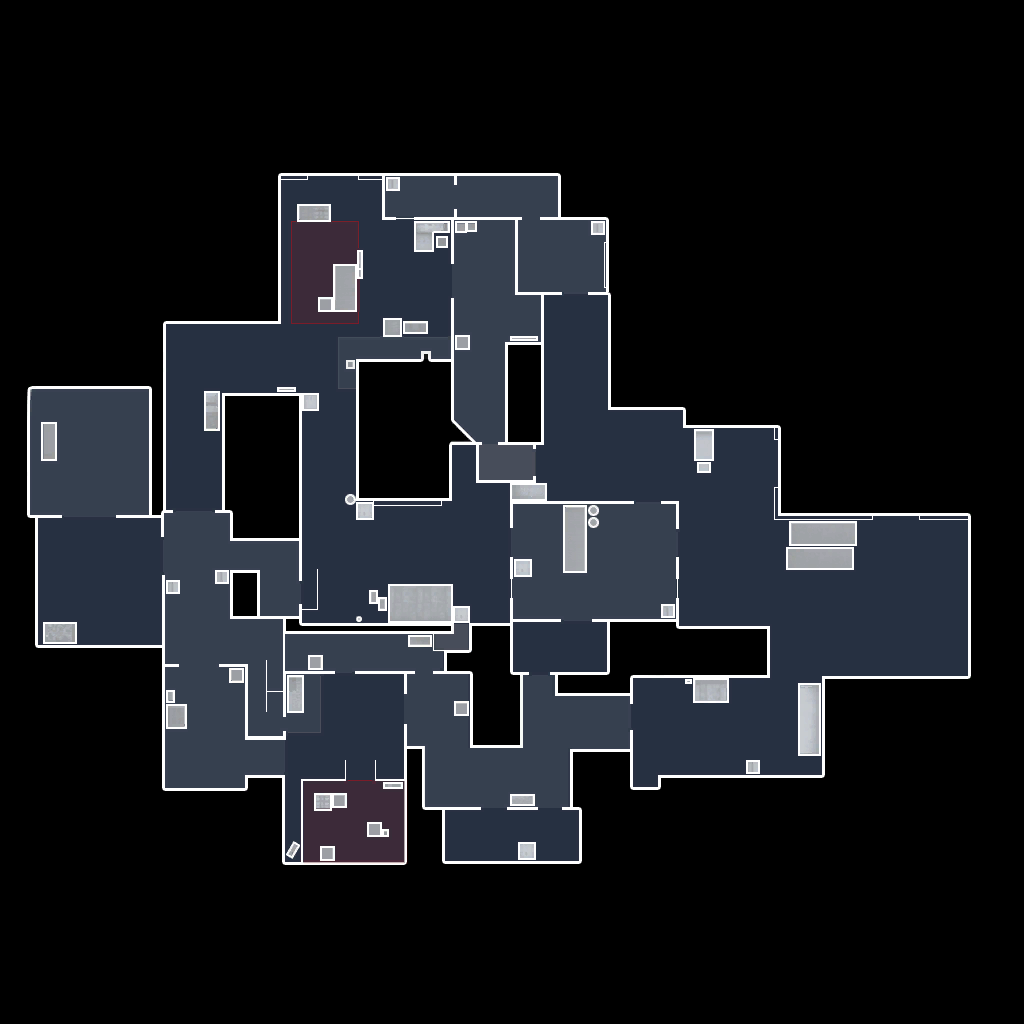
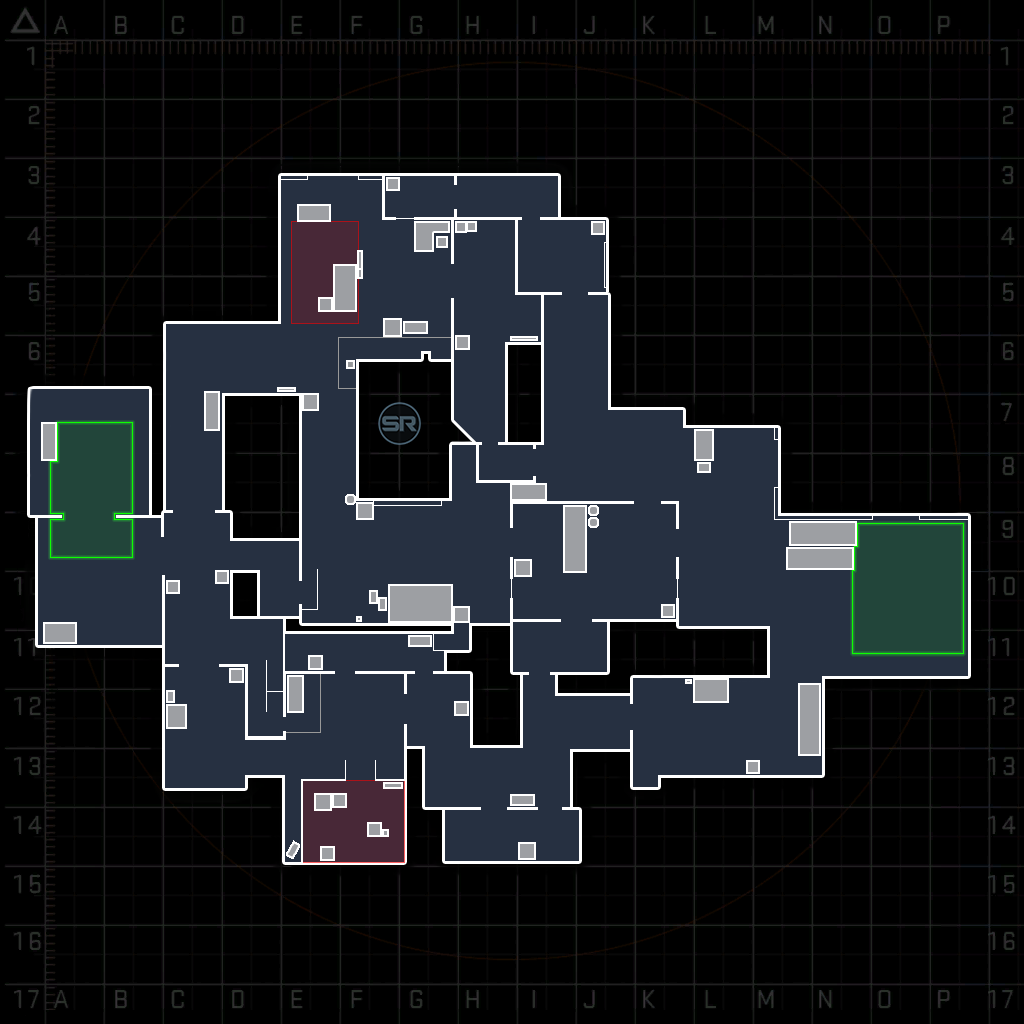
Radar component Done

diff --git a/front/src/overlay/components/RadarPlayer.js b/front/src/overlay/components/RadarPlayer.js
@@ -8,57 +8,71 @@ import type { State } from '../../types'
 import type { Teams, MapState } from '../types'
 
 type Props = {
-  PlayerNumber: number,
-  PlayerTeam: Teams,
-  PlayerPosX: number,
-  PlayerPosY: number,
-  PlayerDead: boolean,
+  playerNumber: number,
+  playerTeam: Teams,
+  playerPosX: number,
+  playerPosY: number,
+  playerDead: boolean,
   key: number,
   map: MapState
 }
 
 type ComponentState = {
   deathPosX: number,
-  deathPosY: number
+  deathPosY: number,
+  prefixX: number,
+  prefixY: number,
+  scaleX: number,
+  scaleY: number
 }
 
 class Radar extends PureComponent<Props, ComponentState> {
   state = {
     deathPosX: -30,
-    deathPosY: -30
+    deathPosY: -30,
+    prefixX: 0,
+    prefixY: 0,
+    scaleX: 0,
+    scaleY: 0
+  }
+
+  componentWillMount() {
+    const { map } = this.props
+    this.setState({
+      prefixX: getMapPrefix(map.name)[0],
+      prefixY: getMapPrefix(map.name)[1],
+      scaleX: getMapScale(map.name)[0],
+      scaleY: getMapScale(map.name)[1]
+    })
   }
 
   _calculateXPosition = () => {
-    const { PlayerPosX, map } = this.props
-    const prefix = getMapPrefix(map.name)[0]
-    const scale = getMapScale(map.name)[0]
+    const { playerPosX } = this.props
+    const { prefixX, scaleX } = this.state
 
-    if (isNaN(PlayerPosX)) return
-    if (PlayerPosX < 0) {
-      return (Math.abs(PlayerPosX) * (-scale)) + prefix
-    } else {
-      return (PlayerPosX * scale) + prefix
-    }
+    if (isNaN(playerPosX)) return
+
+    if (playerPosX < 0)
+      return (Math.abs(playerPosX) * (-scaleX)) + prefixX
+    else 
+      return (playerPosX * scaleX) + prefixX
   }
 
   _calculateYPosition = () => {
-    const { PlayerPosY, map } = this.props
-    
-    const prefix = getMapPrefix(map.name)[1]
-    const scale = getMapScale(map.name)[1]
+    const { playerPosY } = this.props
+    const { prefixY, scaleY } = this.state
 
-    if (isNaN(PlayerPosY)) return
-    if (PlayerPosY < 0) {
-      return (Math.abs(PlayerPosY) * (-scale)) + prefix
-    } else {
-      return (PlayerPosY * scale) + prefix
-    }
+    if (isNaN(playerPosY)) return
+
+    if (playerPosY < 0)
+      return (Math.abs(playerPosY) * (-scaleY)) + prefixY
+    else
+      return (playerPosY * scaleY) + prefixY
   }
 
   componentWillUpdate (nextProp: Props) {
-    // TODO: CHANGE THIS TO REDUX>
-    const { PlayerDead } = this.props
-    if (nextProp.PlayerDead === true && PlayerDead === false) {
+    const { playerDead } = this.props
+    if (nextProp.playerDead && !playerDead) {
       this.setState({
         deathPosX: this._calculateXPosition(),
         deathPosY: this._calculateYPosition()
@@ -67,19 +81,19 @@ class Radar extends PureComponent<Props, ComponentState> {
   }
 
   render () {
-    const { PlayerNumber, PlayerTeam, PlayerDead } = this.props
+    const { playerNumber, playerTeam, playerDead } = this.props
     return (
       <foreignObject
-        x={PlayerDead ? this.state.deathPosX : this._calculateXPosition()}
-        y={PlayerDead ? this.state.deathPosY : this._calculateYPosition()}
+        x={playerDead ? this.state.deathPosX : this._calculateXPosition()}
+        y={playerDead ? this.state.deathPosY : this._calculateYPosition()}
         width={48}
         height={48}
         key={this.props.key}
       >
         <div
-          className={`radar-player ${PlayerTeam} ${PlayerDead ? 'dead' : ''}`}
+          className={`radar-player ${playerTeam} ${playerDead ? 'dead' : ''}`}
         >
-          <span>{PlayerNumber}</span>
+          <span>{playerNumber}</span>
         </div>
       </foreignObject>
     )

diff --git a/front/src/overlay/components/ScorePlate.less b/front/src/overlay/components/ScorePlate.less
@@ -1,3 +1,5 @@
+@import "../variables.less";
+
 .score-top{
   height: 95px;
   margin-left: 30px;
@@ -14,20 +16,20 @@
       &.CT{
         flex-direction: row;
         .team-logo{ border-top-left-radius: 15px; }
-        .team-name, .team-score{ color: #2688f8; }
-        .team-score{ border-bottom: 2px solid #2688f8; }
+        .team-name, .team-score{ color: @ct-color-main; }
+        .team-score{ border-bottom: 2px solid @ct-color-main; }
       }
 
       &.T{
         flex-direction: row-reverse;
         .team-logo{ border-top-right-radius: 15px; }
-        .team-name, .team-score{ color: #ffb900; }
-        .team-score{ border-bottom: 2px solid #ffb900; }
+        .team-name, .team-score{ color: @t-color-main; }
+        .team-score{ border-bottom: 2px solid @t-color-main; }
       }
 
       .team-logo{
         width: 75px;
-        background-color: #1d3b5d;
+        background-color: @ui-text-light;
 
         img{
           display: block;
@@ -44,7 +46,7 @@
         text-align: center;
         font-weight: bold;
         flex: 1;
-        background-color: rgba(1, 64, 137, 0.6);
+        background-color: @ui-default-dark;
 
         &.smaller{
           font-size: 26px;
@@ -56,7 +58,7 @@
         text-align: center;
         font-size: 55px;
         font-weight: bold;
-        background-color: #0c2045;
+        background-color: @ui-text-dark;
       }
     }
     .score-time{
@@ -65,7 +67,7 @@
       display: flex;
       flex-direction: column;
       width: 340px;
-      background-color: rgba(1, 64, 137, 0.6);
+      background-color: @ui-default-dark;
 
       .time{
         font-size: 42px;

diff --git a/front/src/overlay/components/Player.less b/front/src/overlay/components/Player.less
@@ -1,3 +1,5 @@
+@import "../variables.less";
+
 .team-player{
   display: grid;
   grid-template-rows: 1fr 1fr;
@@ -65,7 +67,7 @@
   display: flex;
   align-self: stretch;
   line-height: 25px;
-  background-color: rgba(1, 64, 137, 0.5);
+  background-color: @ui-default-light;
   overflow: hidden;
 
   .player-weapon-secondary{
@@ -117,7 +119,7 @@
     p{
       font-weight: bold;
       font-size: 19px;
-      color: #21c650;
+      color: @money-color;
       text-shadow: 1px 1px 1px black;
     }
   }
@@ -158,17 +160,17 @@ img.holstered{
 }
 
 .overlay-left>.team.CT>.team-player>.player-area-upper{
-  background: -webkit-linear-gradient(left, #004799 2%,#54A6E5 100%);
+  background: -webkit-linear-gradient(left, @ct-color-gradient-off 2%, @ct-color-gradient-main 100%);
 }
 .overlay-right>.team.CT>.team-player>.player-area-upper{
-  background: -webkit-linear-gradient(right, #004799 2%,#54A6E5 100%);
+  background: -webkit-linear-gradient(right, @ct-color-gradient-off 2%, @ct-color-gradient-main 100%);
 }
 
 .overlay-left>.team.T>.team-player>.player-area-upper{
-  background: -webkit-linear-gradient(left, #5e3b00 0%,#ffb900 60%);
+  background: -webkit-linear-gradient(left, @t-color-gradient-off 0%, @t-color-main 60%);
 }
 .overlay-right>.team.T>.team-player>.player-area-upper{
-  background: -webkit-linear-gradient(right, #5e3b00 0%,#ffb900 60%);
+  background: -webkit-linear-gradient(right, @t-color-gradient-off 0%, @t-color-main 60%);
 }
 
 .overlay-left>.team>.team-player.watching>.player-area-lower{

diff --git a/front/src/overlay/lib/MapPrefix.js b/front/src/overlay/lib/MapPrefix.js
@@ -5,19 +5,19 @@ export const getMapPrefix = (map: string) => {
     case 'de_dust2':
       return [540, 715]
     case 'de_train':
-      return [0, 0]
+      return [507, 484]
     case 'de_mirage':
-      return [0, 0]
+      return [621, 320]
     case 'de_vertigo':
       return [0, 0]
     case 'de_cache':
-      return [0, 0]
+      return [333, 565]
     case 'de_overpass':
-      return [0, 0]
+      return [910, 317]
     case 'de_cbble':
       return [0, 0]
     case 'de_nuke':
-      return [0, 0]
+      return [475, 393]
     default:
       return [0, 0]
   }
@@ -28,19 +28,19 @@ export const getMapScale = (map: string) => {
     case 'de_dust2':
       return [0.2256, -0.2256]
     case 'de_train':
-      return [0, 0]
+      return [0.2092, -0.2070]
     case 'de_mirage':
-      return [0, 0]
+      return [0.1949, -0.1990]
     case 'de_vertigo':
       return [0, 0]
     case 'de_cache':
-      return [0, 0]
+      return [0.1835, -0.1800]
     case 'de_overpass':
-      return [0, 0]
+      return [0.1926, -0.1902]
     case 'de_cbble':
       return [0, 0]
     case 'de_nuke':
-      return [0, 0]
+      return [0.1386, -0.1386]
     default:
       return [0, 0]
   }

diff --git a/front/src/overlay/components/PlayerPlate.less b/front/src/overlay/components/PlayerPlate.less
@@ -1,3 +1,4 @@
+@import "../variables.less";
 
 .player-plate{
   margin-bottom: 15px;
@@ -9,11 +10,11 @@
     .grid-upper p,
     .ammo-off,
     .team-highlight{
-      color: #2688f8;
+      color: @ct-color-main;
     }
 
     .grid-upper{
-      border-bottom: 2px solid #2688f8;
+      border-bottom: 2px solid @ct-color-main;
     }
   }
 
@@ -21,11 +22,11 @@
     .grid-upper p,
     .ammo-off,
     .team-highlight{
-      color: #ffb900;
+      color: @t-color-main;
     }
     
     .grid-upper{
-      border-bottom: 2px solid #ffb900;
+      border-bottom: 2px solid @t-color-main;
     }
   }
 
@@ -39,7 +40,7 @@
       margin-left: auto;
       margin-right: auto;
       width: 350px;
-      background-color: rgba(3, 26, 54, 0.8);
+      background-color: @ui-default-darkest;
       border-radius: 20px 20px 0px 0px;
 
       p{
@@ -123,11 +124,11 @@
       }
 
       .grid-lower-light{
-        background-color: rgba(1, 64, 137, 0.6);
+        background-color: @ui-default-dark;
       }
 
       .grid-lower-dark{
-        background-color: rgba(3, 26, 54, 0.8);
+        background-color: @ui-default-darkest;
       }
     }
   }

diff --git a/front/src/overlay/components/Radar.js b/front/src/overlay/components/Radar.js
@@ -28,11 +28,11 @@ class Radar extends PureComponent<Props> {
             return (
               <RadarPlayer
                 key={index}
-                PlayerNumber={player.observer_slot}
-                PlayerTeam={player.team}
-                PlayerPosX={player.position[0]}
-                PlayerPosY={player.position[1]}
-                PlayerDead={player.state.health === 0}
+                playerNumber={player.observer_slot}
+                playerTeam={player.team}
+                playerPosX={player.position[0]}
+                playerPosY={player.position[1]}
+                playerDead={player.state.health === 0}
               />
             )
           })}

diff --git a/front/src/overlay/components/Radar.less b/front/src/overlay/components/Radar.less
@@ -1,3 +1,5 @@
+@import "../variables.less";
+
 .radar{
   margin-left: 10px;
   margin-right: 5px;
@@ -31,17 +33,13 @@
     font-size: 32px;
   }
 
-  &.T{
-    background-color: #ffb900;
-  }
+  &.T{ background-color: @t-color-main; }
 
-  &.CT{
-    background-color: #2688f8;
-  }
+  &.CT{ background-color: @ct-color-main; }
 
   &.dead{
-    background-color: rgba(153, 153, 153, 0.95) !important;
+    background-color: @dead-color-main !important;
     transition: 0 all;
-    z-index: 1;
+    z-index: 1 !important;
   }
 }

diff --git a/front/src/overlay/variables.less b/front/src/overlay/variables.less
@@ -1,0 +1,17 @@
+
+@ct-color-main: #2688f8;
+@ct-color-gradient-main: #54A6E5;
+@ct-color-gradient-off: #004799;
+
+@t-color-main: #ffb900;
+@t-color-gradient-off: #5e3b00;
+
+@money-color: #21c650;
+
+@ui-default-light: rgba(1, 64, 137, 0.5);
+@ui-default-dark: rgba(1, 64, 137, 0.6);
+@ui-default-darkest: rgba(3, 26, 54, 0.8);
+@ui-text-dark: #0c2045;
+@ui-text-light: #1d3b5d;
+
+@dead-color-main: rgba(153, 153, 153, 0.95);
